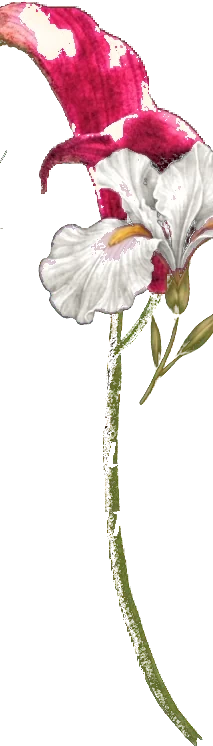
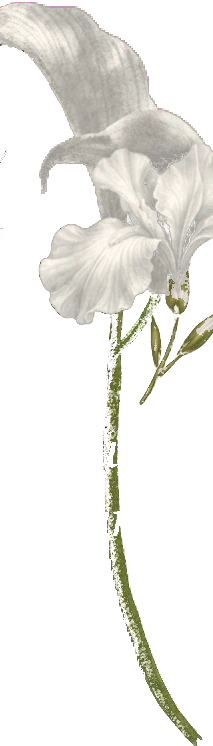
Flores em cor única cada

diff --git a/index.html b/index.html
@@ -10,8 +10,8 @@
 <meta property="og:title" content="Isis Paranho Viana · Formatura em Medicina">
 <meta property="og:description" content="Você é meu convidado especial. Toque para abrir o convite.">
 <meta property="og:url" content="https://isisparanho-debug.github.io/formatura/">
-<meta property="og:image" content="https://isisparanho-debug.github.io/formatura/og5.jpg">
-<meta property="og:image:secure_url" content="https://isisparanho-debug.github.io/formatura/og5.jpg">
+<meta property="og:image" content="https://isisparanho-debug.github.io/formatura/og6.jpg">
+<meta property="og:image:secure_url" content="https://isisparanho-debug.github.io/formatura/og6.jpg">
 <meta property="og:image:type" content="image/jpeg">
 <meta property="og:locale" content="pt_BR">
 <meta property="og:image:width" content="1200"><meta property="og:image:height" content="630">
